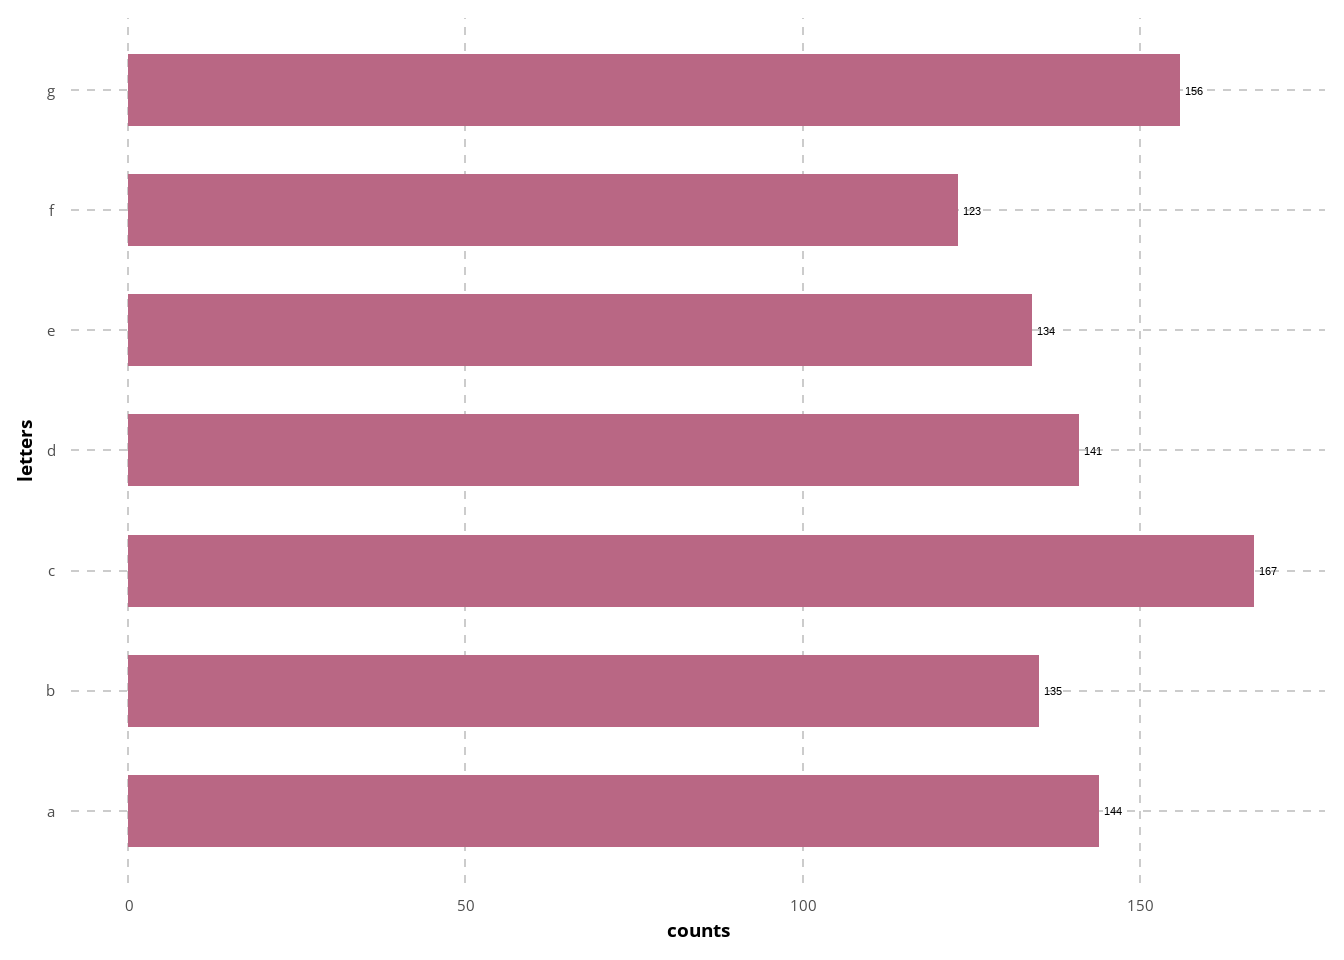
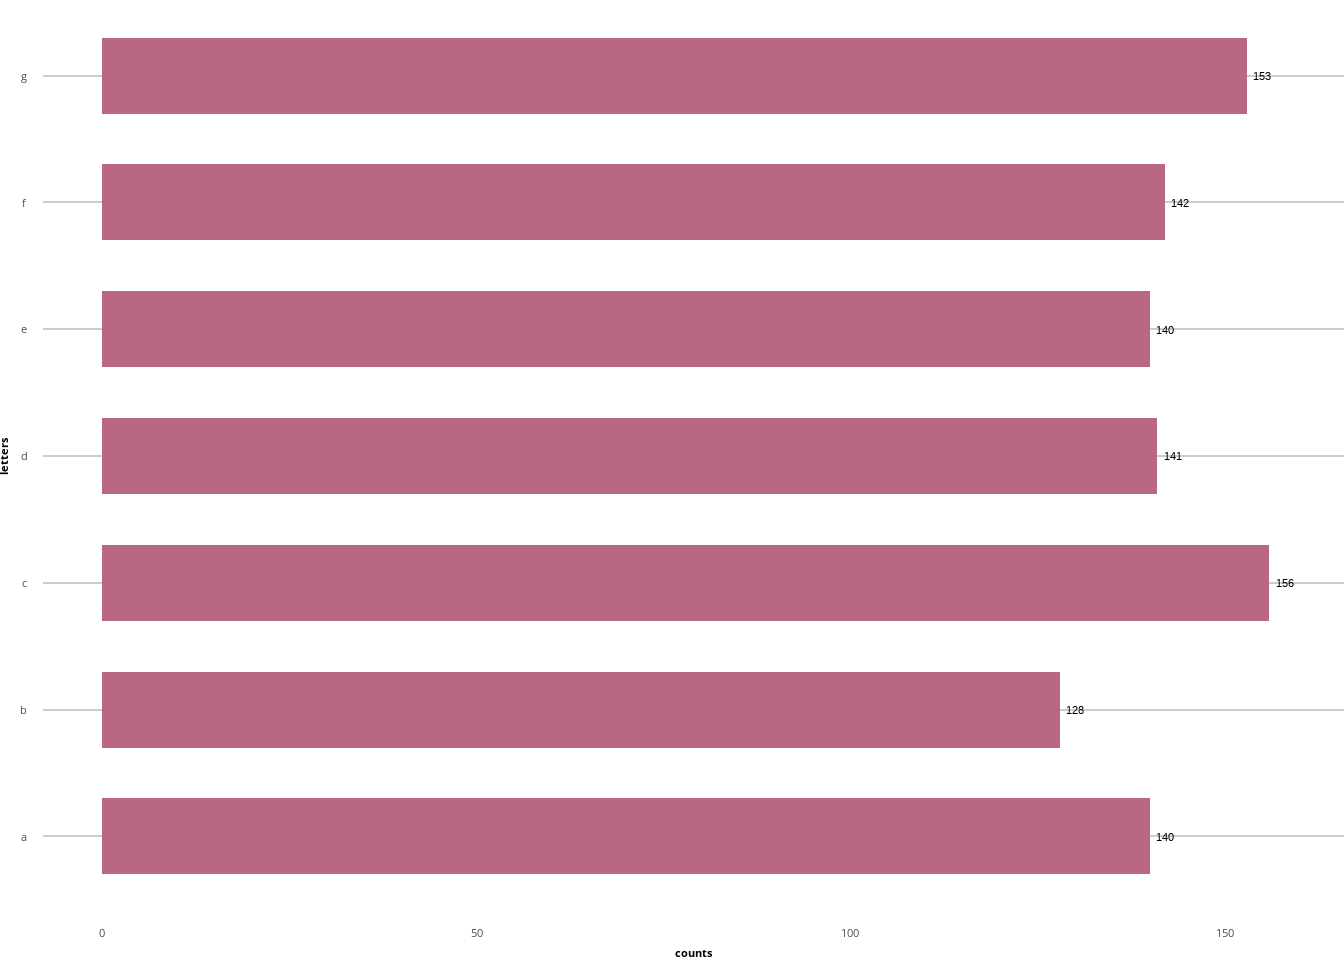
make examples of theme_cbu()

diff --git a/_book/theme.html b/_book/theme.html
@@ -238,64 +238,59 @@ pre > code.sourceCode > span > a:first-child::before { text-decoration: underlin
 <h2 data-number="4.1" class="anchored" data-anchor-id="the-function"><span class="header-section-number">4.1</span> The function</h2>
 <p>Put the function here and discuss it a bit.</p>
 <div class="cell">
-<div class="sourceCode cell-code" id="cb1"><pre class="sourceCode r code-with-copy"><code class="sourceCode r"><span id="cb1-1"><a href="#cb1-1" aria-hidden="true" tabindex="-1"></a><span class="fu">library</span>(tidyverse)</span></code><button title="Copy to Clipboard" class="code-copy-button"><i class="bi"></i></button></pre></div>
-<div class="cell-output cell-output-stderr">
-<pre><code>── Attaching core tidyverse packages ──────────────────────── tidyverse 2.0.0 ──
-✔ dplyr     1.1.4     ✔ readr     2.1.5
-✔ forcats   1.0.0     ✔ stringr   1.5.1
-✔ ggplot2   3.5.1     ✔ tibble    3.2.1
-✔ lubridate 1.9.4     ✔ tidyr     1.3.1
-✔ purrr     1.0.4     
-── Conflicts ────────────────────────────────────────── tidyverse_conflicts() ──
-✖ dplyr::filter() masks stats::filter()
-✖ dplyr::lag()    masks stats::lag()
-ℹ Use the conflicted package (&lt;http://conflicted.r-lib.org/&gt;) to force all conflicts to become errors</code></pre>
+<div class="sourceCode cell-code" id="cb1"><pre class="sourceCode r code-with-copy"><code class="sourceCode r"><span id="cb1-1"><a href="#cb1-1" aria-hidden="true" tabindex="-1"></a><span class="fu">library</span>(tidyverse)</span>
+<span id="cb1-2"><a href="#cb1-2" aria-hidden="true" tabindex="-1"></a><span class="fu">library</span>(showtext)</span>
+<span id="cb1-3"><a href="#cb1-3" aria-hidden="true" tabindex="-1"></a></span>
+<span id="cb1-4"><a href="#cb1-4" aria-hidden="true" tabindex="-1"></a><span class="fu">font_add_google</span>(<span class="st">"Open Sans"</span>)</span>
+<span id="cb1-5"><a href="#cb1-5" aria-hidden="true" tabindex="-1"></a><span class="fu">showtext_auto</span>()</span>
+<span id="cb1-6"><a href="#cb1-6" aria-hidden="true" tabindex="-1"></a>font <span class="ot">&lt;-</span> <span class="st">"Open Sans"</span></span>
+<span id="cb1-7"><a href="#cb1-7" aria-hidden="true" tabindex="-1"></a></span>
+<span id="cb1-8"><a href="#cb1-8" aria-hidden="true" tabindex="-1"></a></span>
+<span id="cb1-9"><a href="#cb1-9" aria-hidden="true" tabindex="-1"></a>cbu_cat <span class="ot">&lt;-</span> <span class="fu">c</span>(<span class="st">"#b96784"</span>, <span class="st">"#88375d"</span>,<span class="st">"#9bb6bd"</span>,<span class="st">"#5E9FB1"</span>, <span class="st">"#755687"</span>,<span class="st">"#4a2d5e"</span>, <span class="st">"#eb676c"</span>,<span class="st">"#aa2041"</span>, <span class="st">"#f2d1ab"</span>, <span class="st">"#dd9d38"</span>)</span>
+<span id="cb1-10"><a href="#cb1-10" aria-hidden="true" tabindex="-1"></a>cbu_cat_1 <span class="ot">&lt;-</span> cbu_cat[<span class="fu">c</span>(<span class="dv">1</span><span class="sc">:</span><span class="dv">5</span>)]</span>
+<span id="cb1-11"><a href="#cb1-11" aria-hidden="true" tabindex="-1"></a>cbu_cat_2 <span class="ot">&lt;-</span> cbu_cat[<span class="fu">c</span>(<span class="dv">6</span><span class="sc">:</span><span class="dv">10</span>)]</span>
+<span id="cb1-12"><a href="#cb1-12" aria-hidden="true" tabindex="-1"></a></span>
+<span id="cb1-13"><a href="#cb1-13" aria-hidden="true" tabindex="-1"></a>theme_cbu <span class="ot">&lt;-</span> <span class="cf">function</span>() {</span>
+<span id="cb1-14"><a href="#cb1-14" aria-hidden="true" tabindex="-1"></a>  <span class="fu">theme_minimal</span>(<span class="at">base_size =</span> <span class="dv">14</span>, <span class="at">base_family =</span> font) <span class="sc">+</span></span>
+<span id="cb1-15"><a href="#cb1-15" aria-hidden="true" tabindex="-1"></a>    <span class="fu">theme</span>(<span class="at">panel.grid.minor =</span> <span class="fu">element_blank</span>(),</span>
+<span id="cb1-16"><a href="#cb1-16" aria-hidden="true" tabindex="-1"></a>          <span class="at">panel.grid.major =</span> <span class="fu">element_line</span>(<span class="at">color =</span> <span class="st">"grey80"</span>, <span class="at">linewidth =</span> .<span class="dv">5</span>),</span>
+<span id="cb1-17"><a href="#cb1-17" aria-hidden="true" tabindex="-1"></a>          <span class="at">panel.grid.major.x =</span> <span class="fu">element_blank</span>(),</span>
+<span id="cb1-18"><a href="#cb1-18" aria-hidden="true" tabindex="-1"></a>          <span class="at">plot.background =</span> <span class="fu">element_rect</span>(<span class="at">fill =</span> <span class="st">"white"</span>, <span class="at">color =</span> <span class="cn">NA</span>),</span>
+<span id="cb1-19"><a href="#cb1-19" aria-hidden="true" tabindex="-1"></a>          <span class="at">plot.title =</span> <span class="fu">element_text</span>(<span class="at">size =</span> <span class="fl">1.68</span><span class="sc">*</span><span class="dv">12</span>, <span class="at">face =</span> <span class="st">"bold"</span>, <span class="at">family =</span> font),</span>
+<span id="cb1-20"><a href="#cb1-20" aria-hidden="true" tabindex="-1"></a>          <span class="at">plot.subtitle =</span> <span class="fu">element_text</span>(<span class="at">face =</span> <span class="st">"italic"</span>, <span class="at">family =</span> font),</span>
+<span id="cb1-21"><a href="#cb1-21" aria-hidden="true" tabindex="-1"></a>          <span class="at">axis.title =</span> <span class="fu">element_text</span>(<span class="at">face =</span> <span class="st">"bold"</span>, <span class="at">size =</span> <span class="fl">8.5</span>),</span>
+<span id="cb1-22"><a href="#cb1-22" aria-hidden="true" tabindex="-1"></a>          <span class="at">axis.text =</span> <span class="fu">element_text</span>(<span class="at">size =</span> <span class="dv">8</span>),</span>
+<span id="cb1-23"><a href="#cb1-23" aria-hidden="true" tabindex="-1"></a>          <span class="at">strip.text =</span> <span class="fu">element_text</span>(<span class="at">face =</span> <span class="st">"bold"</span>, <span class="at">size =</span> <span class="dv">10</span>),</span>
+<span id="cb1-24"><a href="#cb1-24" aria-hidden="true" tabindex="-1"></a>          <span class="at">strip.background =</span> <span class="fu">element_rect</span>(<span class="at">fill =</span> <span class="cn">NA</span>, <span class="at">color =</span> <span class="cn">NA</span>),</span>
+<span id="cb1-25"><a href="#cb1-25" aria-hidden="true" tabindex="-1"></a>          <span class="at">plot.caption =</span> <span class="fu">element_text</span>(<span class="at">face =</span> <span class="st">"italic"</span>, <span class="at">family =</span> font, <span class="at">size =</span> <span class="dv">8</span>),</span>
+<span id="cb1-26"><a href="#cb1-26" aria-hidden="true" tabindex="-1"></a>          <span class="at">legend.title =</span> <span class="fu">element_text</span>(<span class="at">face =</span> <span class="st">"bold"</span>, <span class="at">size =</span> <span class="dv">10</span>),</span>
+<span id="cb1-27"><a href="#cb1-27" aria-hidden="true" tabindex="-1"></a>          <span class="at">legend.text =</span> <span class="fu">element_text</span>(<span class="at">size =</span> <span class="dv">10</span>),</span>
+<span id="cb1-28"><a href="#cb1-28" aria-hidden="true" tabindex="-1"></a>          <span class="at">legend.key.size =</span> <span class="fu">unit</span>(<span class="dv">10</span>, <span class="st">"pt"</span>),</span>
+<span id="cb1-29"><a href="#cb1-29" aria-hidden="true" tabindex="-1"></a>          <span class="at">legend.position =</span> <span class="st">"top"</span>,</span>
+<span id="cb1-30"><a href="#cb1-30" aria-hidden="true" tabindex="-1"></a>          <span class="at">legend.justification=</span><span class="st">'left'</span>,</span>
+<span id="cb1-31"><a href="#cb1-31" aria-hidden="true" tabindex="-1"></a>          <span class="at">legend.direction=</span><span class="st">'horizontal'</span>,</span>
+<span id="cb1-32"><a href="#cb1-32" aria-hidden="true" tabindex="-1"></a>          <span class="at">plot.margin =</span> <span class="fu">unit</span>(<span class="fu">c</span>(<span class="at">t =</span><span class="dv">0</span>, <span class="at">r =</span> <span class="dv">0</span>, <span class="at">b =</span> <span class="dv">0</span>, <span class="at">l =</span> <span class="dv">0</span>), <span class="st">"cm"</span>)</span>
+<span id="cb1-33"><a href="#cb1-33" aria-hidden="true" tabindex="-1"></a>          )</span>
+<span id="cb1-34"><a href="#cb1-34" aria-hidden="true" tabindex="-1"></a>}</span></code><button title="Copy to Clipboard" class="code-copy-button"><i class="bi"></i></button></pre></div>
 </div>
-<div class="sourceCode cell-code" id="cb3"><pre class="sourceCode r code-with-copy"><code class="sourceCode r"><span id="cb3-1"><a href="#cb3-1" aria-hidden="true" tabindex="-1"></a><span class="fu">library</span>(showtext)</span></code><button title="Copy to Clipboard" class="code-copy-button"><i class="bi"></i></button></pre></div>
-<div class="cell-output cell-output-stderr">
-<pre><code>Loading required package: sysfonts
-Loading required package: showtextdb</code></pre>
-</div>
-<div class="sourceCode cell-code" id="cb5"><pre class="sourceCode r code-with-copy"><code class="sourceCode r"><span id="cb5-1"><a href="#cb5-1" aria-hidden="true" tabindex="-1"></a><span class="fu">font_add_google</span>(<span class="st">"Open Sans"</span>)</span>
-<span id="cb5-2"><a href="#cb5-2" aria-hidden="true" tabindex="-1"></a><span class="fu">showtext_auto</span>()</span>
-<span id="cb5-3"><a href="#cb5-3" aria-hidden="true" tabindex="-1"></a>font <span class="ot">&lt;-</span> <span class="st">"Open Sans"</span></span>
-<span id="cb5-4"><a href="#cb5-4" aria-hidden="true" tabindex="-1"></a></span>
-<span id="cb5-5"><a href="#cb5-5" aria-hidden="true" tabindex="-1"></a>theme_cbu <span class="ot">&lt;-</span> <span class="cf">function</span>() {</span>
-<span id="cb5-6"><a href="#cb5-6" aria-hidden="true" tabindex="-1"></a>  <span class="fu">theme_minimal</span>(<span class="at">base_size =</span> <span class="dv">14</span>, <span class="at">base_family =</span> font) <span class="sc">+</span></span>
-<span id="cb5-7"><a href="#cb5-7" aria-hidden="true" tabindex="-1"></a>    <span class="fu">theme</span>(<span class="at">panel.grid.minor =</span> <span class="fu">element_blank</span>(),</span>
-<span id="cb5-8"><a href="#cb5-8" aria-hidden="true" tabindex="-1"></a>          <span class="at">panel.grid.major =</span> <span class="fu">element_line</span>(<span class="at">linetype =</span> <span class="st">"dashed"</span>, <span class="at">color =</span> <span class="st">"grey80"</span>, <span class="at">linewidth =</span> .<span class="dv">5</span>),</span>
-<span id="cb5-9"><a href="#cb5-9" aria-hidden="true" tabindex="-1"></a>          <span class="at">plot.background =</span> <span class="fu">element_rect</span>(<span class="at">fill =</span> <span class="st">"white"</span>, <span class="at">color =</span> <span class="cn">NA</span>),</span>
-<span id="cb5-10"><a href="#cb5-10" aria-hidden="true" tabindex="-1"></a>          <span class="at">plot.title =</span> <span class="fu">element_text</span>(<span class="at">size =</span> <span class="fl">1.68</span><span class="sc">*</span><span class="dv">14</span>, <span class="at">face =</span> <span class="st">"bold"</span>, <span class="at">family =</span> font),</span>
-<span id="cb5-11"><a href="#cb5-11" aria-hidden="true" tabindex="-1"></a>          <span class="at">plot.subtitle =</span> <span class="fu">element_text</span>(<span class="at">face =</span> <span class="st">"italic"</span>, <span class="at">family =</span> font),</span>
-<span id="cb5-12"><a href="#cb5-12" aria-hidden="true" tabindex="-1"></a>          <span class="at">axis.title =</span> <span class="fu">element_text</span>(<span class="at">face =</span> <span class="st">"bold"</span>),</span>
-<span id="cb5-13"><a href="#cb5-13" aria-hidden="true" tabindex="-1"></a>          <span class="at">strip.text =</span> <span class="fu">element_text</span>(<span class="at">face =</span> <span class="st">"bold"</span>),</span>
-<span id="cb5-14"><a href="#cb5-14" aria-hidden="true" tabindex="-1"></a>          <span class="at">strip.background =</span> <span class="fu">element_rect</span>(<span class="at">fill =</span> <span class="cn">NA</span>, <span class="at">color =</span> <span class="cn">NA</span>),</span>
-<span id="cb5-15"><a href="#cb5-15" aria-hidden="true" tabindex="-1"></a>          <span class="at">plot.caption =</span> <span class="fu">element_text</span>(<span class="at">face =</span> <span class="st">"italic"</span>, <span class="at">family =</span> font),</span>
-<span id="cb5-16"><a href="#cb5-16" aria-hidden="true" tabindex="-1"></a>          <span class="at">legend.title =</span> <span class="fu">element_text</span>(<span class="at">face =</span> <span class="st">"bold"</span>),</span>
-<span id="cb5-17"><a href="#cb5-17" aria-hidden="true" tabindex="-1"></a>          <span class="at">legend.position=</span><span class="st">'top'</span>, </span>
-<span id="cb5-18"><a href="#cb5-18" aria-hidden="true" tabindex="-1"></a>          <span class="at">legend.justification=</span><span class="st">'left'</span>,</span>
-<span id="cb5-19"><a href="#cb5-19" aria-hidden="true" tabindex="-1"></a>          <span class="at">legend.direction=</span><span class="st">'horizontal'</span>,</span>
-<span id="cb5-20"><a href="#cb5-20" aria-hidden="true" tabindex="-1"></a>          <span class="at">plot.title.position =</span> <span class="st">"plot"</span>)</span>
-<span id="cb5-21"><a href="#cb5-21" aria-hidden="true" tabindex="-1"></a>}</span></code><button title="Copy to Clipboard" class="code-copy-button"><i class="bi"></i></button></pre></div>
-</div>
-<p>The function is based on theme minimal. It uses <strong>XXX font</strong> with base size of <strong>XX</strong>. The main idea behind the theme function was to declutter the plot and take care of some basic layout &amp; text hierarchy (especially the legend which can be rendered a bit awkwardly by default).</p>
+<p>The function is based on theme minimal. It uses <strong>Open Sans font</strong> with base size of <strong>14</strong>. The main idea behind the theme function was to declutter the plot and take care of some basic layout &amp; text hierarchy (especially the legend which can be rendered a bit awkwardly by default).</p>
 </section>
 <section id="how-it-looks-like" class="level2" data-number="4.2">
 <h2 data-number="4.2" class="anchored" data-anchor-id="how-it-looks-like"><span class="header-section-number">4.2</span> How it looks like</h2>
-<p>Make a plot that shows each element with the spacing, font sizes etc.</p>
+<p>Here is a sample plot:</p>
 <div class="cell">
-<div class="sourceCode cell-code" id="cb6"><pre class="sourceCode r code-with-copy"><code class="sourceCode r"><span id="cb6-1"><a href="#cb6-1" aria-hidden="true" tabindex="-1"></a>some_df <span class="ot">&lt;-</span> <span class="fu">data.frame</span>(</span>
-<span id="cb6-2"><a href="#cb6-2" aria-hidden="true" tabindex="-1"></a>    <span class="at">a =</span> <span class="fu">sample</span>(letters[<span class="dv">1</span><span class="sc">:</span><span class="dv">7</span>], <span class="dv">1000</span>, <span class="at">replace =</span> T)</span>
-<span id="cb6-3"><a href="#cb6-3" aria-hidden="true" tabindex="-1"></a>) <span class="sc">%&gt;%</span></span>
-<span id="cb6-4"><a href="#cb6-4" aria-hidden="true" tabindex="-1"></a><span class="fu">count</span>(a)</span>
-<span id="cb6-5"><a href="#cb6-5" aria-hidden="true" tabindex="-1"></a></span>
-<span id="cb6-6"><a href="#cb6-6" aria-hidden="true" tabindex="-1"></a>some_df <span class="sc">%&gt;%</span></span>
-<span id="cb6-7"><a href="#cb6-7" aria-hidden="true" tabindex="-1"></a><span class="fu">ggplot</span>(<span class="fu">aes</span>(<span class="at">x =</span> a, <span class="at">y =</span> n)) <span class="sc">+</span></span>
-<span id="cb6-8"><a href="#cb6-8" aria-hidden="true" tabindex="-1"></a><span class="fu">geom_col</span>(<span class="at">fill =</span> <span class="st">"#b96784"</span>, <span class="at">width =</span> .<span class="dv">6</span>) <span class="sc">+</span></span>
-<span id="cb6-9"><a href="#cb6-9" aria-hidden="true" tabindex="-1"></a><span class="fu">geom_text</span>(<span class="fu">aes</span>(<span class="at">label =</span> n), <span class="at">nudge_y =</span> <span class="dv">2</span>, <span class="at">size =</span> <span class="dv">3</span>) <span class="sc">+</span></span>
-<span id="cb6-10"><a href="#cb6-10" aria-hidden="true" tabindex="-1"></a><span class="fu">labs</span>(<span class="at">x =</span> <span class="st">"letters"</span>, <span class="at">y =</span> <span class="st">"counts"</span>) <span class="sc">+</span></span>
-<span id="cb6-11"><a href="#cb6-11" aria-hidden="true" tabindex="-1"></a><span class="fu">coord_flip</span>() <span class="sc">+</span></span>
-<span id="cb6-12"><a href="#cb6-12" aria-hidden="true" tabindex="-1"></a><span class="fu">theme_cbu</span>()</span></code><button title="Copy to Clipboard" class="code-copy-button"><i class="bi"></i></button></pre></div>
+<div class="sourceCode cell-code" id="cb2"><pre class="sourceCode r code-with-copy"><code class="sourceCode r"><span id="cb2-1"><a href="#cb2-1" aria-hidden="true" tabindex="-1"></a>some_df <span class="ot">&lt;-</span> <span class="fu">data.frame</span>(</span>
+<span id="cb2-2"><a href="#cb2-2" aria-hidden="true" tabindex="-1"></a>    <span class="at">a =</span> <span class="fu">sample</span>(letters[<span class="dv">1</span><span class="sc">:</span><span class="dv">7</span>], <span class="dv">1000</span>, <span class="at">replace =</span> T)</span>
+<span id="cb2-3"><a href="#cb2-3" aria-hidden="true" tabindex="-1"></a>) <span class="sc">%&gt;%</span></span>
+<span id="cb2-4"><a href="#cb2-4" aria-hidden="true" tabindex="-1"></a><span class="fu">count</span>(a)</span>
+<span id="cb2-5"><a href="#cb2-5" aria-hidden="true" tabindex="-1"></a></span>
+<span id="cb2-6"><a href="#cb2-6" aria-hidden="true" tabindex="-1"></a>some_df <span class="sc">%&gt;%</span></span>
+<span id="cb2-7"><a href="#cb2-7" aria-hidden="true" tabindex="-1"></a><span class="fu">ggplot</span>(<span class="fu">aes</span>(<span class="at">x =</span> a, <span class="at">y =</span> n)) <span class="sc">+</span></span>
+<span id="cb2-8"><a href="#cb2-8" aria-hidden="true" tabindex="-1"></a><span class="fu">geom_col</span>(<span class="at">fill =</span> cbu_cat_1[<span class="dv">1</span>], <span class="at">width =</span> .<span class="dv">6</span>) <span class="sc">+</span></span>
+<span id="cb2-9"><a href="#cb2-9" aria-hidden="true" tabindex="-1"></a><span class="fu">geom_text</span>(<span class="fu">aes</span>(<span class="at">label =</span> n), <span class="at">nudge_y =</span> <span class="dv">2</span>, <span class="at">size =</span> <span class="dv">3</span>) <span class="sc">+</span></span>
+<span id="cb2-10"><a href="#cb2-10" aria-hidden="true" tabindex="-1"></a><span class="fu">labs</span>(<span class="at">x =</span> <span class="st">"letters"</span>, <span class="at">y =</span> <span class="st">"counts"</span>) <span class="sc">+</span></span>
+<span id="cb2-11"><a href="#cb2-11" aria-hidden="true" tabindex="-1"></a><span class="fu">coord_flip</span>() <span class="sc">+</span></span>
+<span id="cb2-12"><a href="#cb2-12" aria-hidden="true" tabindex="-1"></a><span class="fu">theme_cbu</span>()</span></code><button title="Copy to Clipboard" class="code-copy-button"><i class="bi"></i></button></pre></div>
 <div class="cell-output-display">
 <div>
 <figure class="figure">
@@ -304,6 +299,38 @@ Loading required package: showtextdb</code></pre>
 </div>
 </div>
 </div>
+<p>Another example with continuous variables:</p>
+<div class="cell">
+<div class="sourceCode cell-code" id="cb3"><pre class="sourceCode r code-with-copy"><code class="sourceCode r"><span id="cb3-1"><a href="#cb3-1" aria-hidden="true" tabindex="-1"></a>cont_df <span class="ot">&lt;-</span> <span class="fu">data.frame</span>(<span class="at">x =</span> <span class="fu">runif</span>(<span class="fl">1e3</span>, <span class="dv">0</span>, <span class="dv">4</span>),</span>
+<span id="cb3-2"><a href="#cb3-2" aria-hidden="true" tabindex="-1"></a>                      <span class="at">a =</span> <span class="fu">sample</span>(letters[<span class="dv">1</span><span class="sc">:</span><span class="dv">3</span>], <span class="fl">1e3</span>, <span class="at">replace =</span> T)) <span class="sc">%&gt;%</span></span>
+<span id="cb3-3"><a href="#cb3-3" aria-hidden="true" tabindex="-1"></a>  <span class="fu">mutate</span>(<span class="at">y =</span> <span class="fu">ifelse</span>(a <span class="sc">==</span> <span class="st">"a"</span>,</span>
+<span id="cb3-4"><a href="#cb3-4" aria-hidden="true" tabindex="-1"></a>                    <span class="fu">rnorm</span>(<span class="fl">1e3</span>, <span class="at">mean =</span> <span class="fu">sin</span>(x) <span class="sc">+</span> <span class="dv">3</span><span class="sc">*</span><span class="fu">cos</span>(x<span class="sc">^</span><span class="dv">2</span>) <span class="sc">-</span> x<span class="sc">^</span><span class="dv">2</span> <span class="sc">+</span> .<span class="dv">5</span><span class="sc">*</span>x<span class="sc">^</span><span class="dv">3</span>),</span>
+<span id="cb3-5"><a href="#cb3-5" aria-hidden="true" tabindex="-1"></a>                    <span class="fu">ifelse</span>(a <span class="sc">==</span> <span class="st">"b"</span>,</span>
+<span id="cb3-6"><a href="#cb3-6" aria-hidden="true" tabindex="-1"></a>                           <span class="fu">rnorm</span>(<span class="fl">1e3</span>, <span class="at">mean =</span> <span class="sc">-</span><span class="fu">sin</span>(x) <span class="sc">+</span> <span class="dv">3</span><span class="sc">*</span><span class="fu">cos</span>(x<span class="sc">^</span><span class="dv">2</span>) <span class="sc">+</span> x<span class="sc">^</span><span class="dv">2</span> <span class="sc">-</span> .<span class="dv">2</span><span class="sc">*</span>x<span class="sc">^</span><span class="dv">3</span>),</span>
+<span id="cb3-7"><a href="#cb3-7" aria-hidden="true" tabindex="-1"></a>                           <span class="fu">rnorm</span>(<span class="fl">1e3</span>, <span class="at">mean =</span> <span class="dv">6</span> <span class="sc">+</span> <span class="dv">2</span><span class="sc">*</span><span class="fu">sin</span>(x) <span class="sc">-</span> <span class="fl">1.5</span><span class="sc">*</span><span class="fu">cos</span>(x<span class="sc">^</span><span class="dv">2</span>) <span class="sc">-</span> x<span class="sc">^</span><span class="dv">2</span> <span class="sc">+</span> .<span class="dv">5</span><span class="sc">*</span>x<span class="sc">^</span><span class="dv">3</span>))))</span>
+<span id="cb3-8"><a href="#cb3-8" aria-hidden="true" tabindex="-1"></a>           </span>
+<span id="cb3-9"><a href="#cb3-9" aria-hidden="true" tabindex="-1"></a></span>
+<span id="cb3-10"><a href="#cb3-10" aria-hidden="true" tabindex="-1"></a></span>
+<span id="cb3-11"><a href="#cb3-11" aria-hidden="true" tabindex="-1"></a>cont_df <span class="sc">%&gt;%</span></span>
+<span id="cb3-12"><a href="#cb3-12" aria-hidden="true" tabindex="-1"></a>  <span class="fu">ggplot</span>(<span class="fu">aes</span>(<span class="at">x =</span> x, <span class="at">y =</span> y, <span class="at">color =</span> a)) <span class="sc">+</span></span>
+<span id="cb3-13"><a href="#cb3-13" aria-hidden="true" tabindex="-1"></a>  <span class="fu">geom_point</span>(<span class="at">alpha =</span> .<span class="dv">5</span>) <span class="sc">+</span></span>
+<span id="cb3-14"><a href="#cb3-14" aria-hidden="true" tabindex="-1"></a>  <span class="fu">geom_smooth</span>(<span class="at">method =</span> <span class="st">"gam"</span>, <span class="at">se =</span> F) <span class="sc">+</span></span>
+<span id="cb3-15"><a href="#cb3-15" aria-hidden="true" tabindex="-1"></a>  <span class="fu">scale_color_manual</span>(<span class="at">values =</span> cbu_cat_2[<span class="fu">c</span>(<span class="dv">2</span>,<span class="dv">4</span>,<span class="dv">1</span>)]) <span class="sc">+</span></span>
+<span id="cb3-16"><a href="#cb3-16" aria-hidden="true" tabindex="-1"></a>  <span class="fu">labs</span>(<span class="at">x =</span> <span class="st">"jakiś czas"</span>, <span class="at">y =</span> <span class="st">"jakaś ilościowa"</span>, <span class="at">color =</span> <span class="st">"category"</span>) <span class="sc">+</span></span>
+<span id="cb3-17"><a href="#cb3-17" aria-hidden="true" tabindex="-1"></a>  <span class="fu">theme_cbu</span>()</span></code><button title="Copy to Clipboard" class="code-copy-button"><i class="bi"></i></button></pre></div>
+<div class="cell-output cell-output-stderr">
+<pre><code>`geom_smooth()` using formula = 'y ~ s(x, bs = "cs")'</code></pre>
+</div>
+<div class="cell-output-display">
+<div>
+<figure class="figure">
+<p><img src="theme_files/figure-html/unnamed-chunk-3-1.png" class="img-fluid figure-img" width="672"></p>
+</figure>
+</div>
+</div>
+</div>
+<p>Below is a breakdown of all elements in the theme:</p>
+<p><img src="images/clipboard-1620097183.png" class="img-fluid"></p>
 </section>
 <section id="table-theming" class="level2" data-number="4.3">
 <h2 data-number="4.3" class="anchored" data-anchor-id="table-theming"><span class="header-section-number">4.3</span> Table theming</h2>
